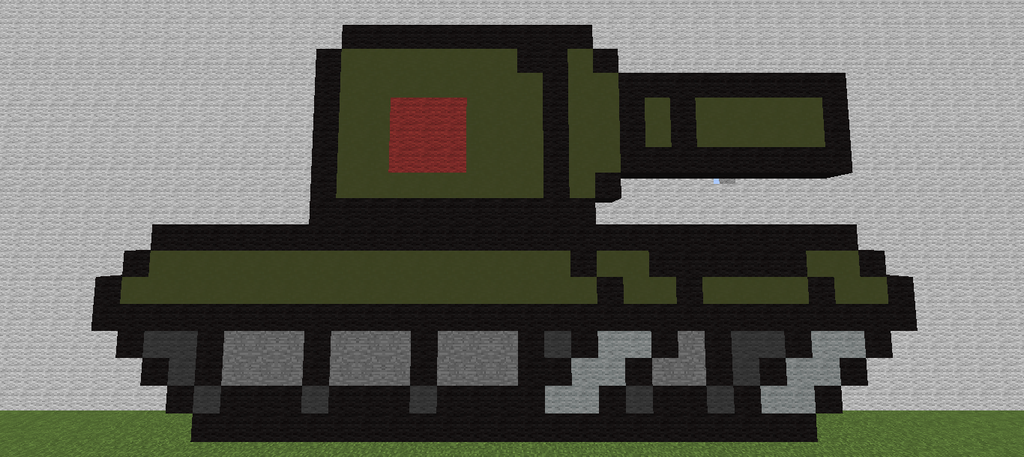
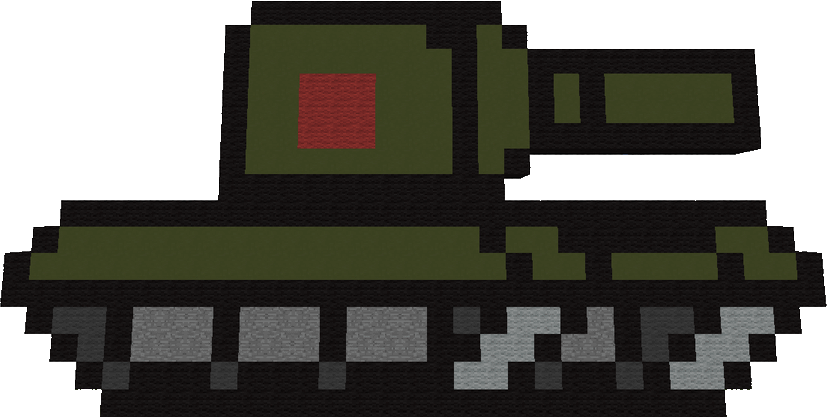
Modified the assets - removed the background. Added a MouseObserver class.

diff --git a/include/Soldier.h b/include/Soldier.h
@@ -1,8 +1,12 @@
 #pragma once
 
 #include "DynamicObject.h"
+#include "MouseClickObserver.h"
 
-class Soldier : public DynamicObject {
+// TEMP TEST
+#include <iostream>
+
+class Soldier : public DynamicObject, public MouseClickObserver {
 private:
 	sf::RectangleShape m_Shape;
 
@@ -11,6 +15,7 @@ public:
 	Soldier(sf::Vector2f p_Position, sf::Vector2f p_Size, sf::Vector2f p_Velocity, sf::Vector2f p_Acceleration);
 	~Soldier();
 
+	void update(MouseClickEvent p_State);
 	void update(float p_DeltaTime);
 	void draw(sf::RenderTarget &p_Target, sf::RenderStates p_States) const;
 };

diff --git a/include/Terrain.h b/include/Terrain.h
@@ -22,7 +22,7 @@ public:
 
 	sf::Vector2f calculateCollisionNormal(const sf::Vector2f &p_Position) const;
 	
-	void update(float p_DeltaTime);			//Maybe add a bool that checks if the image/texture has been updated. 'Cause updating the image is expensive.
+	void update(float p_DeltaTime);			// Maybe add a bool that checks if the image/texture has been updated. 'Cause updating the image is expensive.
 	void draw(sf::RenderTarget &p_Target, sf::RenderStates p_States) const;
 
 	bool loadTerrain(const std::string &p_FileLocation);

diff --git a/src/MouseClickSubscriber.cpp b/src/MouseClickSubscriber.cpp
@@ -1,0 +1,15 @@
+#include "MouseClickSubscriber.h"
+
+void MouseClickSubscriber::attach(MouseClickObserver *p_Observer) {
+	m_Observers.push_back(p_Observer);
+}
+
+void MouseClickSubscriber::dettach(MouseClickObserver *p_Observer) {
+	m_Observers.erase(std::remove(m_Observers.begin(), m_Observers.end(), p_Observer), m_Observers.end());
+}
+
+void MouseClickSubscriber::notify(MouseClickEvent p_UpdatedState) {
+	for (auto &observer : m_Observers) {
+		observer->update(p_UpdatedState);
+	}
+}

diff --git a/src/Soldier.cpp b/src/Soldier.cpp
@@ -13,6 +13,12 @@ Soldier::~Soldier() {
 
 }
 
+void Soldier::update(MouseClickEvent p_State) {
+	std::cout << "Mouse button " << m_ButtonText[(int)p_State.getButton()] << std::endl;
+	std::cout << "X Position: " << p_State.getXPosition() << std::endl;
+	std::cout << "Y Position: " << p_State.getYPosition() << std::endl;
+}
+
 void Soldier::update(float p_DeltaTime) {
 	m_Velocity = m_Velocity + m_Acceleration * p_DeltaTime;
 	m_Position = m_Position + m_Velocity * p_DeltaTime;

diff --git a/src/MouseClickEvent.cpp b/src/MouseClickEvent.cpp
@@ -1,0 +1,18 @@
+#include "MouseClickEvent.h"
+
+MouseClickEvent::MouseClickEvent(MouseButton p_MouseButton, int p_XPosition, int p_YPosition) : 
+	m_MouseButton(p_MouseButton), m_XPosition(p_XPosition), m_YPosition(p_YPosition)  {
+	
+}
+
+MouseButton MouseClickEvent::getButton() {
+	return m_MouseButton;
+}
+
+int MouseClickEvent::getXPosition() {
+	return m_XPosition;
+}
+
+int MouseClickEvent::getYPosition() {
+	return m_YPosition;
+}

diff --git a/include/MouseClickEvent.h b/include/MouseClickEvent.h
@@ -1,0 +1,21 @@
+#pragma once
+
+enum class MouseButton : unsigned int { 
+	LEFT, 
+	RIGHT, 
+	WHEEL 
+};
+
+class MouseClickEvent {
+private:
+	MouseButton m_MouseButton;
+	int m_XPosition;
+	int m_YPosition;
+public:
+	MouseClickEvent() = default;
+	MouseClickEvent(MouseButton p_MouseButton, int p_XPosition, int p_YPosition);
+
+	MouseButton getButton();
+	int getXPosition();
+	int getYPosition();
+};

diff --git a/src/Game.cpp b/src/Game.cpp
@@ -25,7 +25,6 @@ void Game::update(float p_DeltaTime) {
 
 	m_DynamicPixelTest.update(p_DeltaTime);
 
-	//if (falling)
 	m_Soldier.update(p_DeltaTime);
 	
 	// Explode.
@@ -47,7 +46,6 @@ void Game::update(float p_DeltaTime) {
 	if (m_Collision(m_Terrain, m_Soldier, normals)) {
 		//COLLISION DETECTED.
 		Manifold manifold(&m_Terrain, &m_Soldier, normals, p_DeltaTime);
-		//falling = false;
 	}
 
 }

diff --git a/include/MouseClickSubscriber.h b/include/MouseClickSubscriber.h
@@ -1,0 +1,15 @@
+#pragma once
+
+#include <vector>
+#include <algorithm>
+
+#include "MouseClickObserver.h"
+
+class MouseClickSubscriber {
+private:
+	std::vector<MouseClickObserver*> m_Observers;
+public:
+	void attach(MouseClickObserver *p_Observer);
+	void dettach(MouseClickObserver *p_Observer);
+	void notify(MouseClickEvent p_UpdatedState);
+};

diff --git a/src/Terrain.cpp b/src/Terrain.cpp
@@ -13,7 +13,7 @@ Terrain::Terrain() {
 }
 
 sf::Color Terrain::getPixel(const sf::Vector2f &p_Position) {
-	return m_StaticTerrain.getPixel(p_Position.x, p_Position.y);
+	return m_StaticTerrain.getPixel(static_cast<unsigned int>(p_Position.x), static_cast<unsigned int>(p_Position.y));
 }
 
 void Terrain::removePixel(const sf::Vector2f &p_Position) {

diff --git a/include/MouseClickObserver.h b/include/MouseClickObserver.h
@@ -1,0 +1,13 @@
+#pragma once
+
+#include <string>
+
+#include "MouseClickEvent.h"
+
+class MouseClickObserver {
+private:
+	static const unsigned int s_m_NumberOfMouseButtons = 3;
+public:
+	std::string m_ButtonText[s_m_NumberOfMouseButtons] = { "Left", "Right", "Wheel" };
+	virtual void update(MouseClickEvent p_State) = 0;
+};
